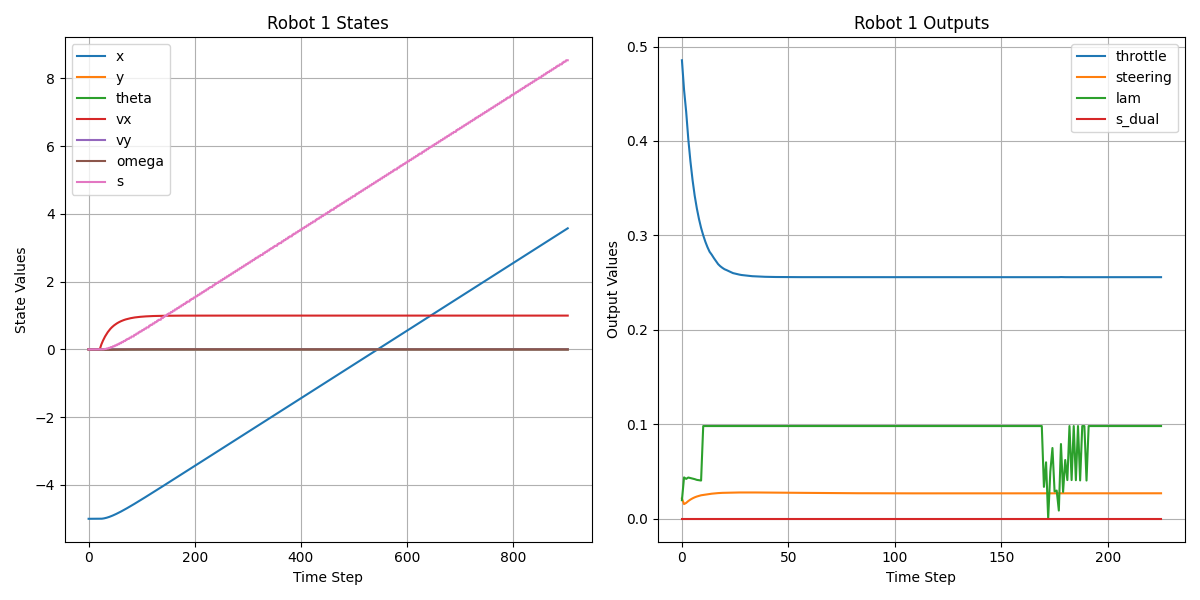
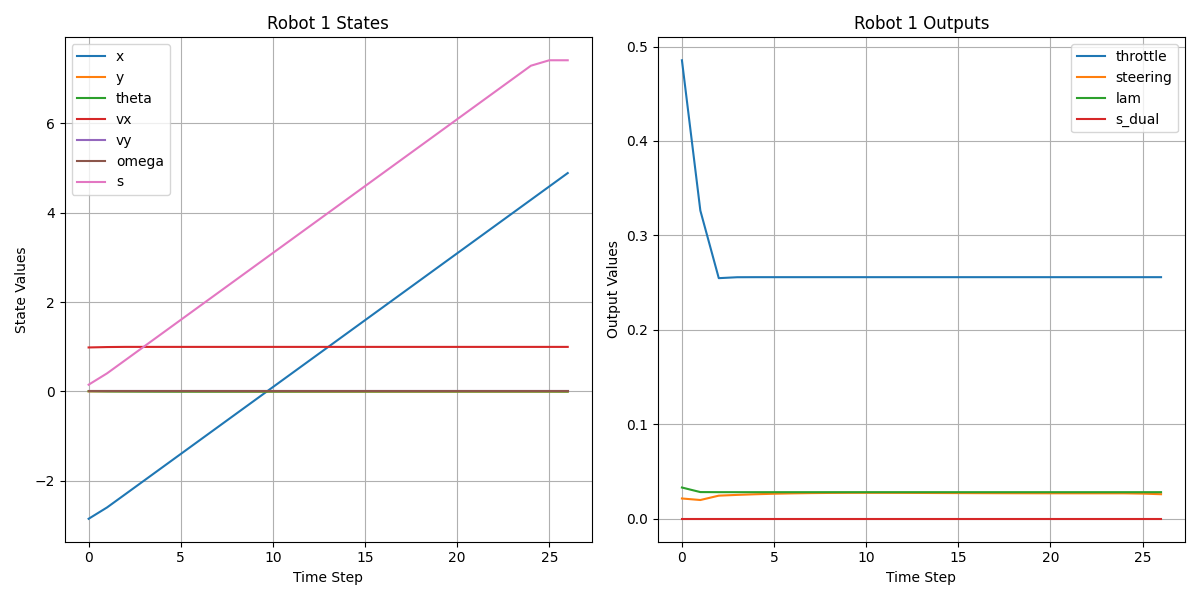
The centralised version works but there is no collision avoidance visible

diff --git a/solver_generator/solver_model.py b/solver_generator/solver_model.py
@@ -232,8 +232,8 @@ class MultiRobotDynamicsModel():
         elif np.any(self.duals == input_state_or_dual):
             i = np.where(self.duals == input_state_or_dual)
             return (
-                self.upper_bound_duals.item((i[0][0], i[1][0])),
                 self.lower_bound_duals.item((i[0][0], i[1][0])),
+                self.upper_bound_duals.item((i[0][0], i[1][0])),
                 (self.upper_bound_duals.item((i[0][0], i[1][0])) - self.lower_bound_duals.item((i[0][0], i[1][0]))),
             )
         else:
@@ -528,7 +528,7 @@ class BicycleModel2ndOrderMultiRobot(MultiRobotDynamicsModel):
 
 if __name__ == "__main__":
 
-    model = BicycleModel2ndOrderMultiRobot(1)
+    model = BicycleModel2ndOrderMultiRobot(2)
     model.acados_symbolics()
     model.get_acados_dynamics()
     model.save_map()
@@ -539,12 +539,12 @@ if __name__ == "__main__":
     
     
     print("d",model.get_d())
-    print("acados_u",model.get_acados_u())
+    print("bounds", model.get_bounds("lam_1_2"))
     # print("lower_bound_u_acados", model.lower_bound_inputs)
-    print("upper_bound_inputs flatten", model.upper_bound_u.flatten())
-    print("upper_bound_inputs", model.upper_bound_inputs)
-    print("upper_bound_inputs flatten", model.upper_bound_u.T.flatten())
-    print("lower_bound_inputs flatten", model.lower_bound_u.T.flatten())
+    # print("upper_bound_inputs flatten", model.upper_bound_u.flatten())
+    # print("upper_bound_inputs", model.upper_bound_inputs)
+    # print("upper_bound_inputs flatten", model.upper_bound_u.T.flatten())
+    # print("lower_bound_inputs flatten", model.lower_bound_u.T.flatten())
     # print("acados_x",model.get_acados_x())
     # print("lower_bound_states", model.lower_bound_states)
     # print("lower_bound_states flatten", model.lower_bound_states.T.flatten())

diff --git a/mpc_planner_modules/polytopic_sj_constraints.py b/mpc_planner_modules/polytopic_sj_constraints.py
@@ -34,7 +34,7 @@ class PolytopicSjdualConstraints:
         self.length = length
         self.width = width
         self.robot_idx = robot_idx
-        self.n_constraints = (n_robots - 1)
+        self.n_constraints = (n_robots - 1) * 2
         self.nh = self.n_constraints
         self.use_slack = use_slack
 

diff --git a/mpc_planner_modules/polytopic_si_constraints.py b/mpc_planner_modules/polytopic_si_constraints.py
@@ -34,7 +34,7 @@ class PolytopicSidualConstraints:
         self.length = length
         self.width = width
         self.robot_idx = robot_idx
-        self.n_constraints = (n_robots - 1)
+        self.n_constraints = (n_robots - 1)* 2
         self.nh = self.n_constraints
         self.use_slack = use_slack
 
